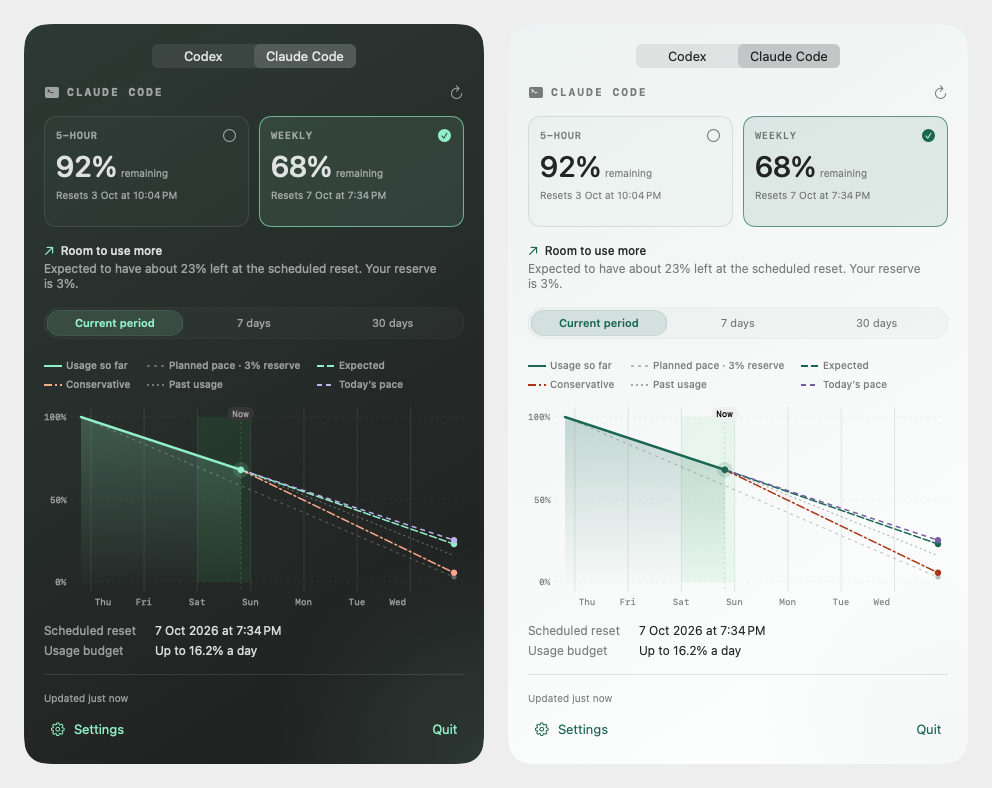
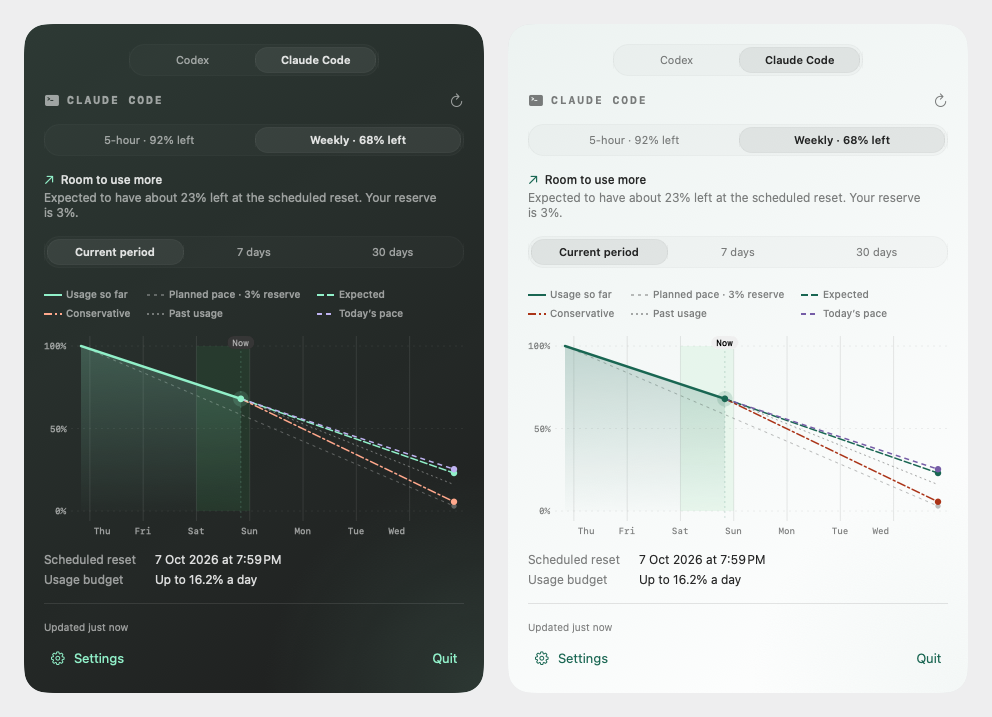
Unify provider and usage selectors with subtle segmented controls
Replace the native provider switch and large usage cards with one compact,
neutral segmented style shared by the chart range selector. Keep both limit
balances visible, move reset details into tooltips, and retain missing and
expired window behavior.

Preserve provider and period preferences and the chart's Option-click pacing
shortcut. Add focus styling, arrow navigation, and accessibility adaptations
to the shared control. Refresh previews and docs for version 0.5.5 (32).

diff --git a/Sources/CodexLimits/SegmentedControl.swift b/Sources/CodexLimits/SegmentedControl.swift
@@ -1,0 +1,92 @@
+import AppKit
+import SwiftUI
+
+struct SegmentedControl<Option: Hashable, Label: View>: View {
+    let options: [Option]
+    let selection: Option?
+    var isEnabled: (Option) -> Bool = { _ in true }
+    let onSelect: (Option) -> Void
+    var onOptionClick: ((Option) -> Void)? = nil
+    @ViewBuilder var label: (Option) -> Label
+    @Namespace private var selectionAnimation
+    @FocusState private var focusedOption: Option?
+    @State private var hoveredOption: Option?
+    @Environment(\.accessibilityReduceMotion) private var reduceMotion
+    @Environment(\.colorSchemeContrast) private var contrast
+
+    var body: some View {
+        HStack(spacing: 2) {
+            ForEach(options, id: \.self) { option in
+                Button {
+                    if NSEvent.modifierFlags.contains(.option), let onOptionClick {
+                        onOptionClick(option)
+                    } else {
+                        select(option)
+                    }
+                } label: {
+                    label(option)
+                        .font(.system(size: 11, weight: selection == option ? .semibold : .regular))
+                        .foregroundStyle(selection == option ? .primary : .secondary)
+                        .lineLimit(1)
+                        .padding(.horizontal, 8)
+                        .frame(maxWidth: .infinity, minHeight: 26)
+                        .background { segmentBackground(for: option) }
+                        .contentShape(Capsule())
+                }
+                .buttonStyle(.plain)
+                .disabled(!isEnabled(option))
+                .focused($focusedOption, equals: option)
+                .onHover { hovering in
+                    hoveredOption = hovering ? option : nil
+                }
+                .accessibilityAddTraits(selection == option ? [.isSelected] : [])
+            }
+        }
+        .padding(3)
+        .background {
+            Capsule()
+                .fill(.primary.opacity(0.025))
+                .overlay(Capsule().strokeBorder(.primary.opacity(contrast == .increased ? 0.35 : 0.06), lineWidth: 0.5))
+        }
+        .onMoveCommand { direction in
+            switch direction {
+            case .left: moveSelection(by: -1)
+            case .right: moveSelection(by: 1)
+            default: break
+            }
+        }
+        .accessibilityElement(children: .contain)
+    }
+
+    private func segmentBackground(for option: Option) -> some View {
+        ZStack {
+            if selection == option {
+                Capsule()
+                    .fill(.primary.opacity(contrast == .increased ? 0.14 : 0.07))
+                    .overlay(Capsule().strokeBorder(.primary.opacity(contrast == .increased ? 0.45 : 0.08), lineWidth: 0.5))
+                    .matchedGeometryEffect(id: "selection", in: selectionAnimation)
+            } else if hoveredOption == option, isEnabled(option) {
+                Capsule().fill(.primary.opacity(0.035))
+            }
+            if focusedOption == option {
+                Capsule().strokeBorder(Color.accentColor.opacity(0.7), lineWidth: 1.5)
+            }
+        }
+    }
+
+    private func select(_ option: Option) {
+        withAnimation(reduceMotion ? nil : .easeInOut(duration: 0.18)) {
+            onSelect(option)
+        }
+    }
+
+    private func moveSelection(by offset: Int) {
+        let enabled = options.filter(isEnabled)
+        guard let index = focusedOption.flatMap({ enabled.firstIndex(of: $0) })
+                ?? selection.flatMap({ enabled.firstIndex(of: $0) }),
+              enabled.indices.contains(index + offset) else { return }
+        let next = enabled[index + offset]
+        focusedOption = next
+        select(next)
+    }
+}

diff --git a/Sources/CodexLimits/ChartRangePicker.swift b/Sources/CodexLimits/ChartRangePicker.swift
@@ -1,51 +1,25 @@
-import AppKit
 import SwiftUI
 
 struct ChartRangePicker: View {
     @Binding var selection: ChartRange
-    let accent: Color
     var windowTitle = "Current period"
     var windowHelp = "Current period"
     var onOptionClickWindow: (() -> Void)? = nil
-    @Namespace private var selectionAnimation
 
     var body: some View {
-        HStack(spacing: 3) {
-            ForEach(ChartRange.allCases, id: \.self) { range in
-                Button {
-                    if range == .window, NSEvent.modifierFlags.contains(.option), let onOptionClickWindow {
-                        onOptionClickWindow()
-                        return
-                    }
-                    withAnimation(.spring(response: 0.32, dampingFraction: 0.78)) {
-                        selection = range
-                    }
-                } label: {
-                    Text(range == .window ? windowTitle : range.title)
-                        .font(.system(size: 11, weight: selection == range ? .semibold : .regular))
-                        .foregroundStyle(selection == range ? accent : .secondary)
-                        .padding(.vertical, 6)
-                        .frame(maxWidth: .infinity)
-                        .background {
-                            if selection == range {
-                                Capsule()
-                                    .fill(accent.opacity(0.12))
-                                    .overlay(Capsule().strokeBorder(accent.opacity(0.18), lineWidth: 0.5))
-                                    .matchedGeometryEffect(id: "selection", in: selectionAnimation)
-                            }
-                        }
-                        .contentShape(Capsule())
-                }
-                .buttonStyle(.plain)
+        SegmentedControl(options: ChartRange.allCases, selection: selection,
+                         onSelect: { selection = $0 }, onOptionClick: selectWithOption) { range in
+            Text(range == .window ? windowTitle : range.title)
                 .help(range == .window ? windowHelp : range.title)
-                .accessibilityAddTraits(selection == range ? [.isSelected] : [])
-            }
         }
-        .padding(3)
-        .background {
-            Capsule()
-                .fill(.primary.opacity(0.03))
-                .overlay(Capsule().strokeBorder(.primary.opacity(0.06), lineWidth: 0.5))
+        .accessibilityLabel("Chart range")
+    }
+
+    private func selectWithOption(_ range: ChartRange) {
+        if range == .window, let onOptionClickWindow {
+            onOptionClickWindow()
+        } else {
+            selection = range
         }
     }
 }

diff --git a/Scripts/MenuPreviewRenderer.swift b/Scripts/MenuPreviewRenderer.swift
@@ -272,8 +272,9 @@ enum MenuPreviewRenderer {
 
     @MainActor private static func renderPeriods(at now: Date, to output: URL) async throws {
         for provider in UsageProvider.allCases {
-            for scenario in ["both", "missing-five-hour", "expired-five-hour"] {
+            for scenario in ["both", "missing-five-hour", "missing-weekly", "expired-five-hour"] {
                 let missingFiveHour = scenario == "missing-five-hour"
+                let missingWeekly = scenario == "missing-weekly"
                 let expiredFiveHour = scenario == "expired-five-hour"
                 let suite = "MenuPreviewRenderer.periods.\(UUID().uuidString)"
                 let defaults = UserDefaults(suiteName: suite)!
@@ -292,9 +293,11 @@ enum MenuPreviewRenderer {
                 let model = LimitReading(limitId: "\(provider.rawValue)-model", name: "Model weekly", window: UsageWindow(
                     remainingPercent: 84, resetsAt: reset, durationMinutes: 10_080))
                 let snapshot = UsageSnapshot(mainLimit: missingFiveHour ? weekly : fiveHour,
-                                             otherLimits: missingFiveHour ? [model] : [weekly, model],
+                                             otherLimits: missingFiveHour || missingWeekly ? [model] : [weekly, model],
                                              tokenHistory: [], resetCredits: [], fetchedAt: fetchedAt)
-                let samples = [fiveHour, weekly].filter { !missingFiveHour || $0.id == weekly.id }.flatMap { reading in
+                let samples = [fiveHour, weekly].filter { reading in
+                    snapshot.limit(for: reading.window.durationMinutes == 300 ? .fiveHour : .weekly, provider: provider) != nil
+                }.flatMap { reading in
                     (0 ... 30).map { index in
                         let progress = Double(index) / 30
                         let elapsed = fetchedAt.timeIntervalSince(reading.window.startsAt) * progress

diff --git a/Sources/CodexLimits/UsageDashboardView.swift b/Sources/CodexLimits/UsageDashboardView.swift
@@ -93,7 +93,7 @@ struct UsageDashboardView: View {
                 color: statusColor(forecast.status)
             )
 
-            rangeControls(accent: accent)
+            rangeControls
 
             if let duration = chartRange.duration {
                 HistoryChart(
@@ -181,7 +181,6 @@ struct UsageDashboardView: View {
     }
 
     private var expiredDashboard: some View {
-        let accent = UsageChartStyle.accent(for: window.remainingPercent, scheme: colorScheme, selection: usageAccent)
         return VStack(alignment: .leading, spacing: 16) {
             VStack(alignment: .leading, spacing: 5) {
                 Label("Awaiting next reading", systemImage: "clock")
@@ -191,7 +190,7 @@ struct UsageDashboardView: View {
                     .foregroundStyle(.secondary)
                     .fixedSize(horizontal: false, vertical: true)
             }
-            ChartRangePicker(selection: $chartRange, accent: accent, windowTitle: "Last period",
+            ChartRangePicker(selection: $chartRange, windowTitle: "Last period",
                              windowHelp: "Usage recorded during the last reported period.")
             if let duration = chartRange.duration {
                 HistoryChart(samples: samples,
@@ -207,10 +206,10 @@ struct UsageDashboardView: View {
         }
     }
 
-    private func rangeControls(accent: Color) -> some View {
+    private var rangeControls: some View {
         let target = activeTarget(in: window)
         return HStack(spacing: 10) {
-            ChartRangePicker(selection: $chartRange, accent: accent,
+            ChartRangePicker(selection: $chartRange,
                              windowHelp: target == nil ? "Option-click to choose a pacing target." : "Option-click to use the scheduled reset.",
                              onOptionClickWindow: {
                 if target != nil {

diff --git a/Sources/CodexLimits/UsagePeriodPicker.swift b/Sources/CodexLimits/UsagePeriodPicker.swift
@@ -1,0 +1,41 @@
+import CodexWidgetKit
+import SwiftUI
+
+struct UsagePeriodPicker: View {
+    let snapshot: UsageSnapshot
+    let provider: UsageProvider
+    let selection: UsagePeriod?
+    let now: Date
+    let onSelect: (UsagePeriod) -> Void
+
+    var body: some View {
+        SegmentedControl(options: UsagePeriod.allCases, selection: selection,
+                         isEnabled: { snapshot.limit(for: $0, provider: provider) != nil }, onSelect: onSelect) { period in
+            Text(title(for: period))
+                .monospacedDigit()
+                .accessibilityLabel(details(for: period))
+                .help(details(for: period))
+        }
+        .accessibilityLabel("Usage window")
+    }
+
+    private func title(for period: UsagePeriod) -> String {
+        guard let window = snapshot.limit(for: period, provider: provider)?.window else {
+            return "\(period.title) · Not reported"
+        }
+        let balance = "\(Int(window.remainingPercent.rounded()))%"
+        return "\(period.title) · \(balance)\(window.resetsAt <= now ? " (last)" : " left")"
+    }
+
+    private func details(for period: UsagePeriod) -> String {
+        guard let window = snapshot.limit(for: period, provider: provider)?.window else {
+            return "\(period.title) limit, not reported"
+        }
+        let balance = Int(window.remainingPercent.rounded())
+        let reset = window.resetsAt.formatted(date: .abbreviated, time: .shortened)
+        if window.resetsAt <= now {
+            return "\(period.title) limit, last reading \(balance) percent, reset passed \(reset), awaiting next reading"
+        }
+        return "\(period.title) limit, \(balance) percent remaining, resets \(reset)"
+    }
+}

diff --git a/Sources/CodexLimits/MenuContentView.swift b/Sources/CodexLimits/MenuContentView.swift
@@ -41,6 +41,7 @@ struct MenuContentView: View {
     var body: some View {
         VStack(spacing: 16) {
             ProviderPicker(selection: $selectedProvider)
+                .frame(maxWidth: 250)
             if let snapshot = monitor.snapshot {
                 TimelineView(.periodic(from: .now, by: 60)) { context in
                     dashboard(snapshot: snapshot, now: context.date)
@@ -88,17 +89,8 @@ struct MenuContentView: View {
             .foregroundStyle(.secondary)
 
             if snapshot.limit(for: .fiveHour, provider: monitor.provider) != nil {
-                HStack(spacing: 10) {
-                    ForEach(UsagePeriod.allCases) { candidate in
-                        UsagePeriodCard(
-                            period: candidate,
-                            window: snapshot.limit(for: candidate, provider: monitor.provider)?.window,
-                            isSelected: candidate == period,
-                            now: now,
-                            select: { savedPeriod = candidate.rawValue }
-                        )
-                    }
-                }
+                UsagePeriodPicker(snapshot: snapshot, provider: monitor.provider, selection: period, now: now,
+                                  onSelect: { savedPeriod = $0.rawValue })
             }
 
             if let period, let limit = snapshot.limit(for: period, provider: monitor.provider) {

diff --git a/Sources/CodexLimits/ProviderPicker.swift b/Sources/CodexLimits/ProviderPicker.swift
@@ -5,13 +5,10 @@ struct ProviderPicker: View {
     @Binding var selection: UsageProvider
 
     var body: some View {
-        Picker("Usage provider", selection: $selection) {
-            ForEach(UsageProvider.allCases) { provider in
-                Text(provider.displayName).tag(provider)
-            }
+        SegmentedControl(options: UsageProvider.allCases, selection: selection, onSelect: { selection = $0 }) { provider in
+            Text(provider.displayName)
+                .help("Show \(provider.displayName) usage")
         }
-        .pickerStyle(.segmented)
-        .labelsHidden()
         .accessibilityLabel("Usage provider")
     }
 }

diff --git a/README.md b/README.md
@@ -34,15 +34,16 @@ The menu-bar label identifies the selected provider. Both providers refresh inde
 with separate saved readings, history, chart preferences, and weekly widgets. Your existing
 Codex history stays in place.
 
-The **5-hour** and **Weekly** cards show both account balances and their reset times
-together. Select either card to switch the detailed chart, forecast, and usage budget
-to that window. The app remembers your selection and chart settings separately for
-each provider and period. Switching cards uses saved readings without making another
-usage request. If either provider omits its five-hour window, the entire limit-selection
-row is hidden and the weekly chart remains visible. An unavailable weekly window
-says **Not reported** when the selection row is shown.
-After a window resets, its saved balance is labeled **last reading** and pacing
-waits for a new reading; its recorded history remains available.
+The provider, usage-window, and chart-range selectors share a subtle segmented style.
+The **5-hour** and **Weekly** segments show both remaining balances together. Select
+either segment to switch the detailed chart, forecast, and usage budget to that window;
+hover for its reset time. The app remembers your selection and chart settings separately
+for each provider and period. Switching windows uses saved readings without making
+another usage request. If either provider omits its five-hour window, the entire
+usage-window selector is hidden and the weekly chart remains visible. An unavailable
+weekly window says **Not reported** when the selector is shown.
+After a window resets, its saved balance is labeled **(last)** and pacing waits for a
+new reading; its recorded history remains available.
 
 Claude Code uses your existing CLI sign-in. On macOS the app reads its OAuth credentials
 from Keychain, with the CLI credentials file as a fallback. Choose **Refresh** if macOS
